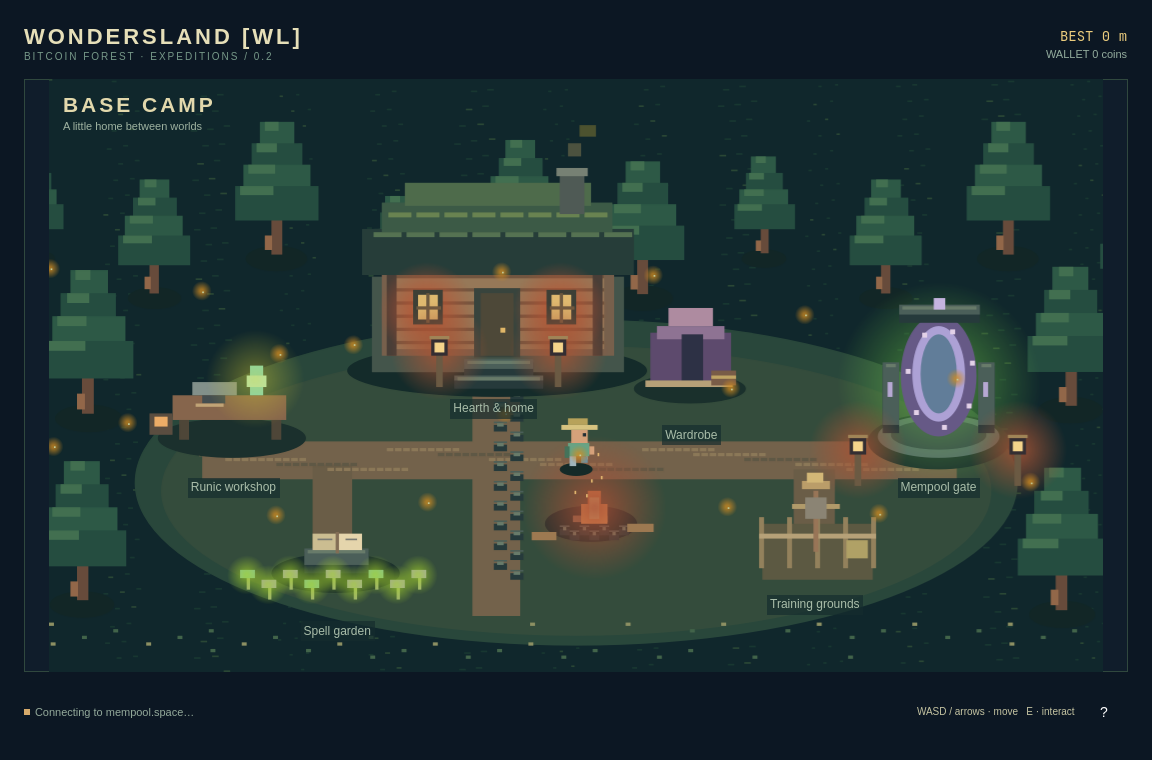
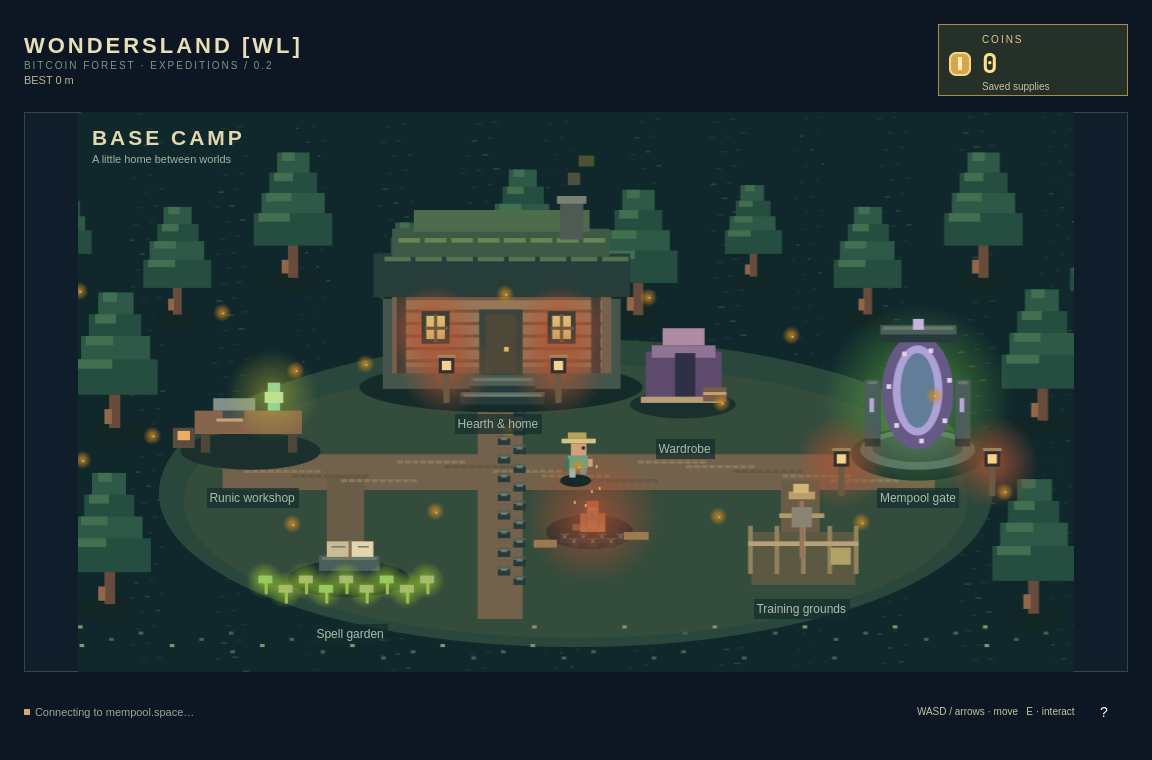
Show prominent coin balance and current expedition earnings

diff --git a/src/Main.qml b/src/Main.qml
@@ -40,11 +40,24 @@ ApplicationWindow {
  ColumnLayout {spacing:2
  Label {text:"WONDERSLAND [WL]";font.pixelSize:22;font.bold:true;font.letterSpacing:3;color:"#e6dfb8"}
  Label {text:qsTr("BITCOIN FOREST · EXPEDITIONS / 0.2");font.pixelSize:10;font.letterSpacing:2;color:"#769888"}
+ Label {text:qsTr("BEST %1 m").arg(s.best);font.pixelSize:11;color:"#b9b497"}
  }
  Item{Layout.fillWidth:true}
- ColumnLayout {spacing:2
- Label {text:qsTr("BEST %1 m").arg(s.best);font.family:"monospace";color:"#ebcc7d";Layout.alignment:Qt.AlignRight}
- Label {text:qsTr("WALLET %1 coins").arg(s.wallet);font.pixelSize:11;color:"#93ac9d";Layout.alignment:Qt.AlignRight}
+ Rectangle {
+ Layout.preferredWidth:190;Layout.preferredHeight:72
+ color:"#253029";border.color:"#aa8b48";radius:theme.radius
+ RowLayout {
+ anchors.fill:parent;anchors.margins:10;spacing:10
+ Item {Layout.preferredWidth:24;Layout.preferredHeight:28
+ Rectangle {anchors.centerIn:parent;width:22;height:24;radius:7;color:"#d5a64e";border.width:2;border.color:"#f2d78c"}
+ Rectangle {anchors.centerIn:parent;width:4;height:13;color:"#ffecb2"}
+ }
+ ColumnLayout {spacing:0;Layout.fillWidth:true
+ Label {text:qsTr("COINS");font.pixelSize:10;font.letterSpacing:2;color:"#e2c780"}
+ Label {objectName:"coinBalance";text:Number(s.wallet).toLocaleString(Qt.locale(),'f',0);font.pixelSize:26;font.bold:true;font.family:"monospace";color:"#ffdf87";Layout.fillWidth:true;elide:Text.ElideRight}
+ Label {text:s.phase!=="camp"&&s.demo?qsTr("Training · not saved"):(s.phase==="running"||s.phase==="paused")?qsTr("+ %1 this expedition").arg(s.collected):qsTr("Saved supplies");font.pixelSize:10;color:"#c8c0a0";Layout.fillWidth:true;elide:Text.ElideRight}
+ }
+ }
  }
  }
  Rectangle {

diff --git a/docs/VERIFICATION.md b/docs/VERIFICATION.md
@@ -27,3 +27,10 @@ Samostatný Qt klient skutečně načetl 10 živých transakcí příkazem
 
 Finální výsledek 0.2: 11 testů prošlo, 0 selhání. Český tábor a malé
 anglické okno vizuálně zkontrolované. Balíček 0.2.0-1 nainstalovaný.
+
+## 0.2.0-2 · mince
+
+Výrazný zlatý ukazatel uložených mincí v horním panelu zůstává viditelný
+v táboře i při běhu. Při živém běhu zvlášť uvádí přírůstek z výpravy,
+v tréninku informaci, že se odměny neukládají. Všech 11 testů prošlo;
+malé okno 720 × 540 vizuálně zkontrolováno. Účetní pravidla se nemění.
